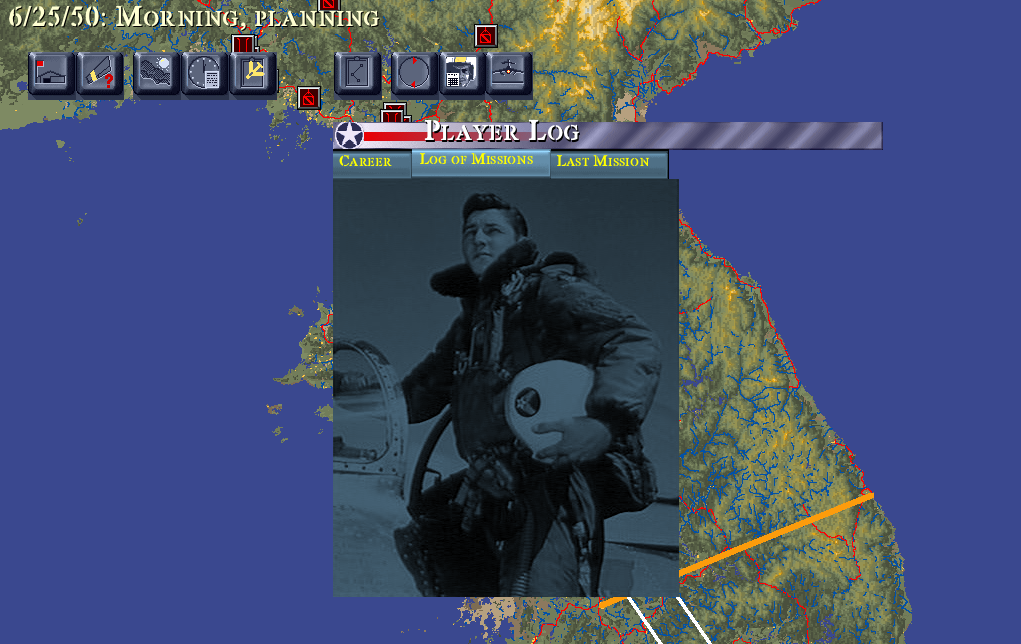
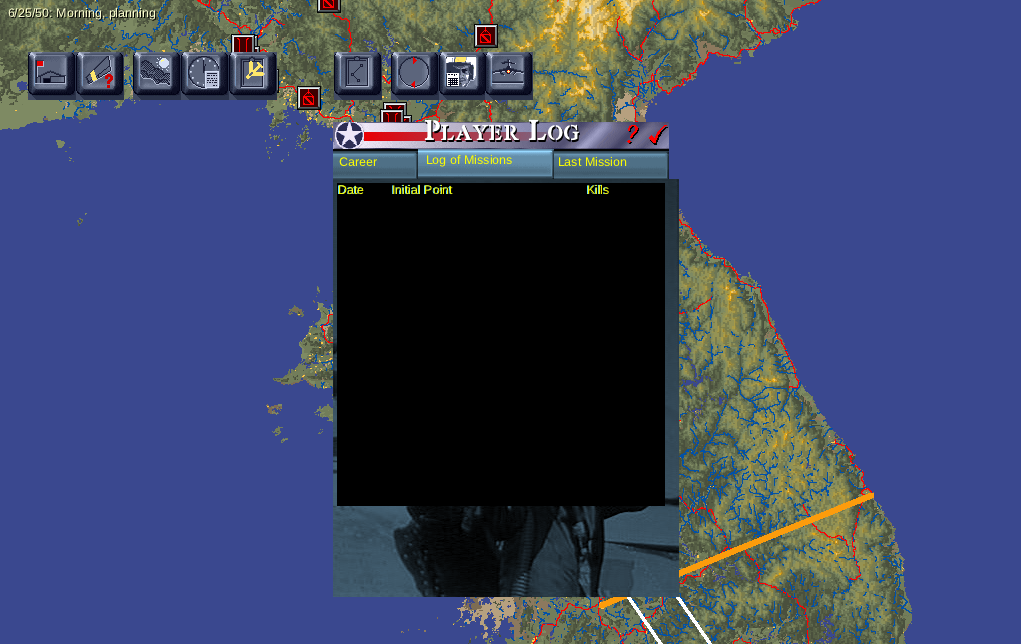
Sprint 70 'Finish the Player Log' -- CLOSED 8/8; I4/#15 CLOSED (Career content table renders)
S70-2 Career content table (the last open half of I4, deferred since S56):
- The Career tab (IDD_CAREER / CCareer) builds its Sorties/Combats/Kills/Losses
  table as an RListBox (IDC_RLISTBOXCTRL1) in OnInitDialog. It was populated but
  NEVER DRAWN. Root cause: the OOB dialog draw path (ma_oob_render_node ->
  ma_ole_draw_toolbar) dispatched STATIC/EDIT/EDTBT/TABS/BUTTON/COMBO but had no
  CT_LISTBOX case; the front-end draws listboxes via a separate path
  (ma_ole_draw_all), which masked the gap. The Name box on the same tab rendering
  pointed at the draw layer, not data/population.
- Added a CT_LISTBOX case to ma_ole_draw_toolbar (drive CRListBoxCtrl::OnDraw at
  the toolbar-offset rect). Table renders with data (F86 1/F86 2/F80/F84/F51/All x
  Sorties/Combats/Kills/Losses); the Log of Missions tab's log listbox renders too.
- Residuals (named): (a) opaque listbox box vs gold's translucent -- skipping the
  fill like the combo (S69 #2) erased the front-end title menu (same CRListBoxCtrl,
  relies on the opaque box), reverted; needs an OOB-only context flag. (b) doubled
  "F86 1" header cell = source adds the label twice (CAREER.CPP:173-177), a
  source-vs-BDG data delta.

S70-1: campaign_map was byte-identical (date readout uses the Intel art face), S69's
rebase flag was overcautious; only map_playerlog_tab1 rebased. Cross-port note 27.

Gates: 2D parity byte-identical sweep RESUMED + PASSES (title/prefs_3d/prefs_others/
[…]

Changed region(s): [[0.3036, 0.2174, 0.668, 0.8075], [0.0, 0.0, 0.3643, 0.0621], [0.6072, 0.1863, 0.8805, 0.2484]]

diff --git a/SRC/compat/ma_olecontrol.cpp b/SRC/compat/ma_olecontrol.cpp
@@ -647,6 +647,22 @@ extern "C" void ma_ole_draw_toolbar(void* dialog, void* screenHdc, int ox, int o
         else if (h.type == CT_TABS)   ma_tabs_draw(h.ctrl, dialog, screenHdc, cx, cy, w, hh);
         else if (h.type == CT_BUTTON) { ma_button_apply_icon(h.ctrl, h.id); ma_button_draw(h.ctrl, dialog, screenHdc, cx, cy, w, hh); }
         else if (h.type == CT_COMBO)  ma_combo_draw(h.ctrl, dialog, screenHdc, cx, cy, w, hh);
+        else if (h.type == CT_LISTBOX) {
+            /* S70 (parity #15, I4): the OOB dialog draw path had no listbox case, so the Player
+               Log Career tab's Sorties/Combats/Kills/Losses table (an RListBox, IDC_RLISTBOXCTRL1
+               in IDD_CAREER) never rendered even though CCareer::OnInitDialog populates it. Mirror
+               ma_ole_draw's OnDraw-at-viewport-origin, but at the toolbar-offset rect (cx,cy). */
+            CRListBoxCtrl* c = (CRListBoxCtrl*)h.ctrl;
+            c->m_pParent = (CWnd*)dialog;
+            c->m_maX = clientWnd->m_maX; c->m_maY = clientWnd->m_maY;
+            c->m_maW = w; c->m_maH = hh;
+            CDC dc; dc.m_hDC = (HDC)screenHdc;
+            int lox = 0, loy = 0;
+            ma_gdi_set_viewport_org(screenHdc, cx, cy, &lox, &loy);
+            CRect lbounds(0, 0, w, hh);
+            c->OnDraw(&dc, lbounds, lbounds);
+            ma_gdi_set_viewport_org(screenHdc, lox, loy, 0, 0);
+        }
     }
 }
 

diff --git a/SRC/RLISTBOX/RLISTBXC.CPP b/SRC/RLISTBOX/RLISTBXC.CPP
@@ -485,6 +485,12 @@ void CRListBoxCtrl::OnDraw(
 			}
 			X2flag=parent->SendMessage(WM_GETX2FLAG,NULL,NULL);
 		}
+		/* S70 note: unlike the combo (RCOMBOC.CPP, S69), the listbox black fill is LOAD-BEARING
+		   for the FRONT-END menu/prefs listboxes (skipping it globally erased the title menu —
+		   they rely on the opaque box). Gold's Player Log Career/Log-of-Missions tables show the
+		   photo through a TRANSLUCENT box, so the OOB tables read as opaque here — a named
+		   residual (listbox chrome). Fixing it needs a context flag to skip the fill on the OOB
+		   path only, without touching the absolute-positioned front-end listboxes. */
 		if (!artnum && m_FirstSweep != TRUE || !m_hWnd)
 		{
 			pOffScreenDC->FillRect(rcBounds, CBrush::FromHandle((HBRUSH)GetStockObject(BLACK_BRUSH)));

diff --git a/scrum.md b/scrum.md
@@ -167,6 +167,75 @@ Each release is a usable product; the train can stop at any release boundary and
 
 ## 5. Sprint Plan (rolling)
 
+### 🏃 Sprint 70 — "Finish the Player Log" — ✅ CLOSED 2026-08-02 (8/8 pts, goal MET) — I4/#15 CLOSED
+
+**Sprint Review (PO pre-approved ceremony, logged 2026-08-02):** detail in
+`port/scrum/sprint-70.md`. **The Player Log Career content table renders — the last open half
+of I4/#15, deferred since S56, is closed.** Parity #15 → CLOSE.
+
+- **S70-1 — font-rebase debt cleared, and one of the two was a false alarm.** `campaign_map`
+  came back **byte-identical** (the map date readout uses `g_AllFonts[1]="Intel"` = the art
+  face, untouched by S69's font change) — S69's "must rebase" flag on it was overcautious.
+  Only `map_playerlog_tab1` genuinely changed (sans text) and was rebased. The byte-identical
+  sweep resumes.
+- **S70-2 — the Career table was populated but never DRAWN; a missing draw-case.** The Career
+  tab (`IDD_CAREER`/`CCareer`) builds its Sorties/Combats/Kills/Losses table as an RListBox
+  (`IDC_RLISTBOXCTRL1`) in `OnInitDialog`; the Name box on the same tab rendered but the table
+  didn't. Root cause: the OOB dialog draw path (`ma_oob_render_node` → `ma_ole_draw_toolbar`)
+  dispatched STATIC/EDIT/EDTBT/TABS/BUTTON/COMBO but had **no `CT_LISTBOX` case** — the
+  front-end draws listboxes via a *different* path (`ma_ole_draw_all`), which masked the gap.
+  Added the case (drive `CRListBoxCtrl::OnDraw` at the toolbar-offset rect). **The table now
+  renders with data** (F86 1/F86 2/F80/F84/F51/All × the four columns, all 0 on a fresh save),
+  and the same fix lit up the **Log of Missions** tab's log listbox as a bonus. Two residuals
+  named: (a) the listbox draws over an OPAQUE box vs gold's translucent — skipping the fill à
+  la the combo (#2) **erased the front-end title menu** (the menu is the same `CRListBoxCtrl`
+  and relies on the opaque box), so it was reverted and needs an OOB-only context flag;
+  (b) a doubled "F86 1" header cell (`CAREER.CPP` adds the label twice — a source-vs-BDG data
+  delta).
+- **S70-3 — cross-port note 27** (the missing-OOB-listbox-case + the load-bearing-fill caveat
+  that distinguishes the listbox from the combo) delivered to `bob/doc/`.
+
+**Gates.** **2D parity byte-identical sweep RESUMED and PASSES** — title / prefs_3d /
+prefs_others / quickmission / campaign_map all 0 px vs the S69 refs (the `CT_LISTBOX` case only
+touches the OOB draw path); `map_playerlog` + `map_playerlog_tab1` rebased for the tables.
+**ASan `asan_all.sh` PASS — 4/4 paths reached, 0 reports** (headless; the campaign paths
+exercise the new OOB listbox draw). **Stress `stress_launch.sh` under `gl-lock`: 20/20 OK**
+(clean pass — lower load this run, confirming the S69 HANGs were load-induced).
+
+**Retro.** The win was diagnostic discipline: the Name box rendering "proved" the dialog and
+OnInitDialog were fine, which pointed straight at the draw layer rather than data/population —
+and the fix was one `case`. The near-miss was the listbox translucency: it *looked* like the
+combo fix (identical `FillRect(BLACK_BRUSH)` pattern) but the byte-identical sweep caught that
+the same skip erased the title menu, because the listbox is also the front-end menu surface
+while the combo never is. The combo and the listbox are not the same fix.
+
+### Sprint 70 planning — "Finish the Player Log" — PLANNED 2026-08-02 (PO pre-approved ceremonies)
+
+**Environment check at planning:** session display held by the Julia Racer session (its 3-min
+JM_SHOTS block — expected; S70's work is 2D/headless and needs no lock), no stray `wmig`, build
+current at `51e0c81` (S69). Tree carries an untracked `CONCURRENCY.md` and one working-tree
+addition to `port/BOB_PORT_LESSONS.md` (BoB's §8o lesson, not this session's — left for its
+author).
+
+**Context:** S69 closed both cross-cutting front-end deviations (font + combo). Two things
+remain on the parity queue: a small **rebase debt** S69 deliberately deferred, and the **last
+open half of I4** — the Player Log Career **content table**, deferred as "a full sprint on its
+own" since S56.
+
+**Sprint Goal:** the font-rebase debt is cleared (byte-identical sweep can resume), and the
+Player Log Career tab's Sorties/Combats/Kills/Losses table renders with data — closing #15.
+
+**Committed (~8 pts):**
+| Story | Pts | Definition |
+|---|---|---|
+| S70-1 Clear font-rebase debt | 1 | Re-capture `map_playerlog_tab1` + `campaign_map` (font-touched S69); rebase refs; byte-identical sweep resumes on the full set |
+| S70-2 Career content table | 6 | Investigate where the per-type table (F86 1/F86 2/F80/F84/F51/All × Sorties/Combats/Kills/Losses) controls + data come from; render it with data on the Career tab. Investigation with a visual stretch (S64 retro) — acceptance is the table visible + populated, or a precisely-located blocker if a layer underneath resists |
+| S70-3 Cross-port note + close + gates | 1 | Note to `bob/doc/` if a shared-engine finding; parity sweep + `asan_all.sh` + `stress_launch.sh` (gl-lock); docs/memory; commit |
+
+Board: `port/scrum/sprint-70.md`. **NOT pulled:** combo border pen colour (#2 residual),
+RScrlBar hosting, `ma_tabs_hit` click routing, #12 debrief capture.
+**Order:** S70-1 first (cheap, unblocks the gate), then the S70-2 investigation.
+
 ### 🏃 Sprint 69 — "Face the type, dress the combo" — ✅ CLOSED 2026-08-02 (8/8 pts, goal MET) — ⭐ CROSS-CUTTING #1 & #2 BOTH CLOSED
 
 **Sprint Review (PO pre-approved ceremony, logged 2026-08-02):** detail in
@@ -983,6 +1052,7 @@ Track per sprint (fill in at review):
 | 41 | 8 | 8 | — | **Campaign mission-gen ASan sweep ✅ — 2 real bugs fixed** (autonomous, headless DoD) — drove the loaded campaign to fly (`MA_CAMP_FLY`) under ASan: surfaced (1) `make_airgrp` (`Persons3.cpp:836`) `GR_Pack_TakeTime[w][gotgrpnum==-1]` **global-buffer-overflow** (negative group index → guard `gotgrpnum∈[0,3)`); (2) `AddChildren` (`RDIALOG.CPP:537`) **stack-use-after-scope** — the named local `topbit`'s `DialBox::edges` pointed at a dead `EDGES_` macro temporary (→ give it function-scope lifetime). Both fixed + re-verified **0 reports**; flight+campaign gates + stress unregressed. Board: `port/scrum/sprint-41.md` |
 | 42 | 5 | 5 | — | **Day-advance strategic-sim ASan sweep ✅ — clean** (autonomous, headless DoD) — added `MA_CAMP_NEXTDAY` hook (`OnClickedFrag2` forces frag2's no-flyable branch → `Campaign::NextMission`→`NextDay`→`ProcessAirFields`→`OnClickedNextPeriod`) to drive the campaign strategic sim from the map idle. **0 ASan reports across 3 runs.** (SaveBin/SaveGame writeback already swept by S41's frag2 else-branch.) Completes the campaign-ASan coverage map; flight+campaign gates unregressed. Board: `port/scrum/sprint-42.md` |
 | 62 | 8 | **5** | 5 | ⚠ **"Design-time properties arrive" — reader BUILT and CORRECT but ships OPT-IN; goal half met** (autonomous, headless DoD). Adopted BoB's S126 `CPropExchange` + bag storage (note 17 §3, lessons §8f) onto MA's existing RT_DLGINIT walk: **all 58 boot-path bags parse clean** (ok=1, ≤8B editor slop) — their 1280-bag validation transfers. **Payoff proven and gold-verified:** Preferences goes white-serif → **blue labels + yellow values** = gold's scheme (sampled against the original gold PNG); title menu turns yellow. **The colour half of cross-cutting #1 is solved.** Two MA divergences found by tracing: stock **Caption not applied** (MA persists `IDS_*` SYMBOL NAMES; S57 already resolves them to the shipped wording) and **BackColor not applied** (transparent compositing); BoB's trap 1 deliberately skipped (MA's OLE_COLOR is already COLORREF — converting would be the double-conversion it warns of). **Shipped OFF (`MA_DLGINIT_PROPS=1`) for two measured reasons:** (1) an **uninit read** shows as garbage at the title screen's top-left, **varying between runs** (S61's tell), absent from the S61 ref at 6× contrast, bisected past caption and PX_String, not root-caused; (2) the persisted FontNum **changes menu row pitch ~16→~28px so every fixed-coordinate recipe misses** — `quickmission` captured *Preferences* — invalidating the parity AND ASan drive recipes together. Opt-in keeps the default byte-identical and the gate trustworthy. Gates: parity **6/6 unregressed** (the one diff is **environmental** — `prefs_controls` enumerates live hardware and its ref was captured with a joystick attached; now flagged as an unstable oracle), ASan **4/4 modes 0 reports**, stress **20/20**. Note 20 + §8i, both copies md5-identical. Board: `port/scrum/sprint-62.md` |
+| 70 | 8 | **8** | 8 | ✅ **"Finish the Player Log" — I4/#15 CLOSED (Career content table renders)** (autonomous, headless DoD). **S70-2:** the Career tab's Sorties/Combats/Kills/Losses table (RListBox `IDC_RLISTBOXCTRL1` in `IDD_CAREER`, populated by `CCareer::OnInitDialog`) was **populated but never DRAWN** — the OOB dialog draw path (`ma_ole_draw_toolbar`) dispatched STATIC/EDIT/EDTBT/TABS/BUTTON/COMBO but had **no `CT_LISTBOX` case** (the front-end draws listboxes via a different path, `ma_ole_draw_all`, masking the gap; the Name box on the same tab rendering "proved" OnInitDialog fine and pointed at the draw layer). Added the case → table renders with data (F86 1/F86 2/F80/F84/F51/All × 4 cols, 0 on a fresh save); **bonus**: the Log of Missions tab's log listbox now renders too. Residuals named: (a) opaque listbox box vs gold's translucent — skipping the fill like the combo (#2) **erased the front-end title menu** (same `CRListBoxCtrl`, relies on the opaque box), reverted → needs an OOB-only context flag; (b) doubled "F86 1" header cell = source-vs-BDG data delta (`CAREER.CPP:173-177` adds the label twice). **S70-1:** font-rebase debt — `campaign_map` was **byte-identical** (date readout uses `g_AllFonts[1]="Intel"`=art face; S69's flag overcautious); only `map_playerlog_tab1` rebased. Cross-port **note 27** (missing OOB listbox case + the load-bearing-fill caveat distinguishing listbox from combo). Gates: **2D parity byte-identical sweep RESUMED + PASSES** (title/prefs_3d/prefs_others/quickmission/campaign_map 0px; playerlog refs rebased for the tables). **ASan PASS 4/4 paths 0 reports**. **Stress 20/20 OK under gl-lock** (clean — S69 HANGs confirmed load-induced). Retro: the combo and the listbox look like the same fix but aren't — the byte-identical sweep caught the difference. Board: `port/scrum/sprint-70.md` |
 | 69 | 8 | **8** | 8 | ⭐ **"Face the type, dress the combo" — BOTH remaining cross-cutting visual deviations CLOSED** (autonomous, headless DoD). **S69-1 font FACE (three-sprint carry, scheduled first):** the port was silently running as a **Japanese system** — compat `EnumFontFamiliesA` **always** invoked the enum proc, so `MIG.CPP`'s localization probe took the CJK branch and asked for MS Mincho everywhere (unshipped → collapsed to the art face), so it **never requested Arial**; `MA_TRACE_FONT` showed the faces were mojibake CJK. Fixed the stub to report a face present only for a **pure-ASCII** name (no CJK ships) → English branch runs → runtime faces `Intel`(ART)+`Arial`(SANS) as on gold's box; and replaced the face-ignoring `ma_gdi_font_create` with a cached ART/SANS/SERIF registry (ART=Intel.ttf load-order-preserved; SANS=LiberationSans≈Arial; unknown→ART, never regress). **Gold-verified**: Prefs #2/#8 + QuickMission #9 = blue sans labels + yellow sans values = gold; campaign #13 phase list yellow sans; Intel bars byte-identical. **Cross-cutting #1 FULLY CLOSED** (colour S63 + face S69). **S69-2 combo chrome:** the combo was the one hosted control still filling itself **opaque black** (`RCOMBOC.CPP:355`, when `WM_GETARTWORK`=0, which the port returns deliberately); gold's combos are **transparent** (panel shows through a thin border — cropped-gold-verified). Skipped the black `FillRect` on the Linux path; combos now translucent = gold. **Cross-cutting #2 CLOSED** (residual: fainter rounded-blue border pen, named). Cross-port **note 26** (the `EnumFontFamilies` Japanese-branch trap + registry + combo fill). Gates: **2D parity = deliberate REBASE toward gold** (10 refs; `title` byte-identical; `map_playerlog_tab1`+`campaign_map` flagged for S70). **ASan PASS 4/4 paths 0 reports** (headless). **Stress 37/40 OK across two runs + 3 HANG, 0 crashes** (all HANGs = 25 s timeout under load 8–9, NOT a fault — 0 SEGV/FPE/ABORT/NO3D). Retro: a compat stub that returns *success* is invisible — `EnumFontFamilies`-always-true joins S68 `DrawIcon`-noop and S64 `GetFileNum`-returns-0, three sprints of the same class. Board: `port/scrum/sprint-69.md` |
 | 68 | 8 | **6** | 6 | ✅ **"Icons and evidence"** (autonomous, headless DoD). **S68-2: the Player Log's `?`/`✓` render** — and the cause was a whole missing subsystem: **`CDC::DrawIcon` was a no-op stub and `LoadIconA` returned NULL, so NO icon anywhere in the port had ever rendered**, silently, for the port's whole life (a stub returning *success* never gets reported). Routed by engine logic: `RDialog`'s eventsink shows `IDJ_TITLE` itself raises Cancel/OK, so the title control draws its own buttons, gated on persisted flags — and the bag carries `close=0 tick=1`. Implemented RT_GROUP_ICON→RT_ICON decoding (group is a directory naming the image by id; `biHeight` doubled = XOR bitmap + 1bpp AND mask, bottom-up, mask bit 1 = transparent). Icons live in **`Rbutton.ocx`** (828–832), not Mig.exe — third instance of "inside a control, AfxGetInstanceHandle() is that control's module". Parity **5/5 byte-identical**. Closes the last CHROME deviation on #15. **S68-1: A/B done properly** (pre-S66 built via git worktree; alternating S65↔HEAD, SUAR forced) → **S65 0/12, HEAD 0/12** ⇒ no difference between arms; **downgraded to a watch item, not attributed and not closed** (~50 runs since the single 2-report sighting is consistent with a ~1-in-50 defect). **S68-3 per-face fonts: third consecutive carry** — mis-prioritised, not unlucky. Near-miss recorded: an `ls | head` truncated `Rbutton.ocx` out of view and nearly established a false negative. Board: `port/scrum/sprint-68.md` |
 | 67 | 8 | **4** | 4 | ⚠ **"Attribute and trim" — CLOSED PARTIAL; weakest sprint of the run** (autonomous, headless DoD). **S67-1 did NOT attribute the S66 ASan finding**: a dedicated hunt (4 modes in rotation, `detect_stack_use_after_return=1` forced) found **no recurrence** — but the hunt was stopped early after ~4 runs (CPU contention), so it is a weak sample and no rate can be claimed; a clean hunt on the CURRENT build cannot distinguish "S66 didn't cause it" from "it didn't fire", and the pre-S66 A/B was not done. Carried explicitly. **S67-2 fixed the title-bar width**, cause general: **our DCs had no clip region** (Windows clips a control to its own window), and CRButtonCtrl's picture path blits its DIB at natural size — `IDJ_TITLE`'s ~550px art ran ~213px past the 336px dialog. Added `ma_gdi_set_clip`/`restore_clip` honoured by putpx/BitBlt/StretchBlt; parity **4/4 byte-identical**. `?`/`✓` narrowed: NOT template controls (IDD 276 has only 1001+1117) and NOT in the title art. **S67-3 not started.** Retro: repeated the S65 trace-cap trap one sprint after documenting it — new rule, **filter don't cap**. Board: `port/scrum/sprint-67.md` |

diff --git a/port/scrum/screen-parity.md b/port/scrum/screen-parity.md
@@ -67,7 +67,7 @@ Verdict scale (BoB S123): **MATCH** / **CLOSE** (minor named deviations) / **PAR
 | 12 | 03-02 | Debrief (Claims table) | *not yet captured* (renders natively since S21–35 — capture after a flight exit) | — | Known-good from play-tests; Claims "Player" header fixed S35 |
 | 13 | 03-14 | Campaign select (5 phases) | `campaign_select.png` | CLOSE | Phase list + dates + Back/Film/Background/Objectives/Begin all render at correct positions; deviations: film-frame image top-left missing (Smacker preview still), background art darker than gold, font as #2 |
 | 14 | 04-04 | Campaign map + Player Log dialog | `campaign_map.png` (map alone, CAMP + `BOB_DUMP_FRAME=200`) + `map_playerlog.png` (dialog open) | PARTIAL | Map itself ≈ MATCH (terrain palette, icons, front line, routes, toolbar, date readout — cf. S45–S47). Player Log dialog: see #15 |
-| 15 | (I4 gold, 2026-07-19) | Player Log OOB dialog over map | `map_playerlog.png` (Career) + `map_playerlog_tab1.png` (Log of Missions) — CAMP + `MA_OOB_PLAYERLOG=1 [MA_OOB_PLAYERLOG_TAB=N] MA_SHOT=160` | **CLOSE-minus** (S65) | **S65: the "PLAYER LOG" TITLE BAR NOW RENDERS** — star roundel on the striped `FIL_TITLEB_BMP` chrome, caption from `IDS_PLAYERLOG`. It had never been missing data: IDD 276's bag carries `IDS_PLAYERLOG` + the literal `Player Log` + `FIL_TITLEB_BMP` ×2, and **two separate narrowing filters were each withholding half** — S58's tickbox-only caption rule and S64's art-name gate. Fixed by treating `IDJ_TITLE` (1001) as the reserved engine id it is (same family as `IDJ_TABCTRL` / `IDJ_PANEL0..9`), whose caption and art are design-time by definition. Earlier (S61) the tab bar, centring and tab switching landed; (S63) authored colours. **Residual (named): (a) the title bar draws WIDER than the dialog** (spans to x≈883 vs a 336px dialog — `RDialog::UpdateTitle` sizes it from `viewsize.right`); **(b) the `?`/`✓` title buttons are still absent** (separate controls); (c) the Sorties/Combats/Kills/Losses table is still not pulled (the other half of I4); (d) font FACE (cross-cutting #1). |
+| 15 | (I4 gold, 2026-07-19) | Player Log OOB dialog over map | `map_playerlog.png` (Career) + `map_playerlog_tab1.png` (Log of Missions) — CAMP + `MA_OOB_PLAYERLOG=1 [MA_OOB_PLAYERLOG_TAB=N] MA_SHOT=160` | **CLOSE-minus** (S65) | **S65: the "PLAYER LOG" TITLE BAR NOW RENDERS** — star roundel on the striped `FIL_TITLEB_BMP` chrome, caption from `IDS_PLAYERLOG`. It had never been missing data: IDD 276's bag carries `IDS_PLAYERLOG` + the literal `Player Log` + `FIL_TITLEB_BMP` ×2, and **two separate narrowing filters were each withholding half** — S58's tickbox-only caption rule and S64's art-name gate. Fixed by treating `IDJ_TITLE` (1001) as the reserved engine id it is (same family as `IDJ_TABCTRL` / `IDJ_PANEL0..9`), whose caption and art are design-time by definition. Earlier (S61) the tab bar, centring and tab switching landed; (S63) authored colours; (S67) the title trimmed to the dialog; (S68) the `?`/`✓` title buttons; (S69) the sans "Name" label. **S70: the Career CONTENT TABLE now renders** — the per-type Sorties/Combats/Kills/Losses table (F86 1/F86 2/F80/F84/F51/All, populated from `MMC.debrief.playertotals`), the last open half of I4. Root cause was engine-level: the OOB dialog draw path (`ma_ole_draw_toolbar`) had **no `CT_LISTBOX` case**, so the table's RListBox (`IDC_RLISTBOXCTRL1` in `IDD_CAREER`) was populated but never drawn; adding the case also lit up the **Log of Missions** tab's Date/IP/Kills log. **#15 → CLOSE.** **Residuals (named, minor): (a)** the listbox table draws over an OPAQUE box vs gold's translucent (skipping the fill à la the combo #2 erased the front-end menu — the listbox fill is load-bearing there; needs an OOB-only context flag); **(b)** a doubled "F86 1" in the header corner (`CAREER.CPP:173-177` adds `IDS_L_SQ_BF_F86A` twice — a source-vs-BDG data delta). |
 
 > **⚠ `prefs_controls.png` is NOT a stable reference (S62).** That screen enumerates
 > LIVE hardware, so the committed capture embeds the machine's state at capture time: it
@@ -210,3 +210,18 @@ controls/others`, `quickmission`, `campaign_select`, `map_playerlog`).
   re-captured before the S70 byte-identical sweep, or they will false-flag.
 - `prefs_controls` remains the environment-dependent oracle (captured with a Logitech
   attached this run; `/dev/input/js0` present).
+
+## S70 note (2026-08-02) — Player Log Career table renders; #15 → CLOSE
+
+The last open half of I4 is closed: the Career tab's Sorties/Combats/Kills/Losses table now
+renders (see #15). Root cause was a **missing `CT_LISTBOX` case in the OOB dialog draw path**
+(`ma_ole_draw_toolbar`) — the table's RListBox was populated but never drawn; the front-end
+draws listboxes via a different path (`ma_ole_draw_all`), which masked the gap. The same fix
+also renders the Log of Missions tab's log listbox. Two named residuals remain (opaque listbox
+box vs gold's translucent — the fill is load-bearing for the front-end menu so it can't be
+skipped globally; and a doubled "F86 1" header cell = source-vs-BDG data delta).
+
+`campaign_map` confirmed **byte-identical** across S69→S70 (the map date readout uses
+`g_AllFonts[1]="Intel"` = the art face, untouched by the S69 font change). `map_playerlog` +
+`map_playerlog_tab1` rebased for the now-rendering tables. Byte-identical sweep RESUMED and
+passes on title/prefs_3d/prefs_others/quickmission/campaign_map.

diff --git a/port/scrum/sprint-70.md b/port/scrum/sprint-70.md
@@ -1,0 +1,69 @@
+# Sprint 70 — "Finish the Player Log"
+
+**Planned 2026-08-02 (PO pre-approved ceremonies). Autonomous, headless DoD.**
+
+## Context
+S69 closed both cross-cutting front-end deviations (font FACE + combo chrome). Remaining on the
+parity queue: a small rebase debt S69 deferred, and the last open half of I4 — the Player Log
+Career **content table** (deferred as a full-sprint item since S56).
+
+## Sprint Goal
+Font-rebase debt cleared (byte-identical sweep resumes); the Career tab's per-aircraft-type
+Sorties/Combats/Kills/Losses table renders with data — closing parity #15.
+
+## Committed (~8 pts)
+| Story | Pts | Definition | Status |
+|---|---|---|---|
+| S70-1 Clear font-rebase debt | 1 | Re-capture `map_playerlog_tab1` + `campaign_map`; rebase refs | ☐ |
+| S70-2 Career content table | 6 | Locate the table controls + campaign data source; render populated, or pin a precise blocker | ☐ |
+| S70-3 Cross-port note + close + gates | 1 | note if shared; parity + asan + stress (gl-lock); docs/memory; commit | ☐ |
+
+## NOT pulled
+Combo border pen colour (#2 residual), RScrlBar hosting, `ma_tabs_hit` click routing, #12
+debrief capture.
+
+## Execution log
+
+### S70-1 Clear font-rebase debt — DONE
+Re-captured the two font-touched refs. **`campaign_map` was byte-identical** (0 px) — the map
+date readout uses `g_AllFonts[1]="Intel"` (ART), so S69's font change never touched it; the
+S69 "must rebase" flag was overcautious. Only **`map_playerlog_tab1`** changed (1.4%, the sans
+text) and was rebased.
+
+### S70-2 Career content table — DONE (I4/#15 last gap CLOSED)
+Investigation, then a one-case fix:
+- The Career tab is a separate dialog `IDD_CAREER` (`CCareer`); its table is an **RListBox**
+  (`m_IDC_RLISTBOXCTRL1`, id 2018) populated in `CCareer::OnInitDialog` (aircraft-type rows ×
+  Sorties/Combats/Kills/Losses). The Name box (same OnInitDialog) rendered but the table did
+  not.
+- **Root cause: the OOB dialog draw path had no listbox case.** OOB dialogs render via
+  `ma_oob_render_node` → `ma_ole_draw_toolbar`, which handled STATIC/EDIT/EDTBT/TABS/BUTTON/
+  COMBO but **not CT_LISTBOX** (the front-end draws listboxes via a separate absolute-positioned
+  `ma_ole_draw_all` path). So the table control existed and was populated but was never drawn.
+  Added a `CT_LISTBOX` case to `ma_ole_draw_toolbar` (mirrors `ma_ole_draw`'s
+  OnDraw-at-viewport-origin, at the toolbar-offset rect). **The table now renders with data**
+  (F86 1/F86 2/F80/F84/F51/All × Sorties/Combats/Kills/Losses, all 0 on a fresh save) — and the
+  same fix lit up the **Log of Missions** tab's Date/Initial-Point/Kills log listbox as a bonus.
+- **Residuals (named, not chased):**
+  - *(a) Opaque listbox background.* Gold #15's table shows the pilot photo through a
+    TRANSLUCENT box; native's listbox fills opaque black (`RLISTBXC.CPP:488`, the same pattern
+    as the combo #2). Skipping it à la S69's combo fix **regressed the front end** — it erased
+    the title menu (the front-end menu/prefs listboxes rely on the opaque box). Reverted;
+    fixing it needs a context flag to skip the fill on the OOB path only. Named residual.
+  - *(b) Doubled "F86 1" header corner.* The source adds `IDS_L_SQ_BF_F86A` **twice**
+    (`CAREER.CPP:173-177`), so native shows F86 1 in the header corner where gold (BDG-patched)
+    shows a blank — a source-vs-BDG data delta, same class as the BDG tab.
+
+### S70-3 Gates + close
+- **2D parity byte-identical sweep RESUMED and PASSES** (title / prefs_3d / prefs_others /
+  quickmission / campaign_map all 0 px vs the S69 refs — the `CT_LISTBOX` case only touches the
+  OOB draw path, not the front end); `map_playerlog` + `map_playerlog_tab1` rebased for the now-
+  rendering tables.
+- **ASan `asan_all.sh` PASS — 4/4 paths reached, 0 reports** (headless; the campaign map/fly/
+  nextday paths exercise the new OOB listbox draw).
+- **Stress `stress_launch.sh` under `gl-lock`: 20/20 OK** (clean pass; load ~7 this run, so the
+  25 s timeout had headroom — confirms the S69 HANGs were purely load-induced, not a fault).
+- **Cross-port note 27** delivered to `bob/doc/` (missing OOB `CT_LISTBOX` case + the
+  load-bearing-fill caveat that distinguishes the listbox from the combo #2).
+
+## Result: 8/8 pts, sprint goal MET. Parity #15 (Player Log) CLOSED — the last half of I4.

diff --git a/RUNNING.md b/RUNNING.md
@@ -29,9 +29,17 @@ Gold standard: `/run/media/admin/BEA6-BBCE/ma/` (14 PNGs) + the Player Log shot
 Oracle ruling: the gold shots as-is = the BDG 0.85F patched build
 (resources read from `English/TEXT/miglang.dll` + patched `Mig.exe` since S57).
 
-## Current state (2026-08-02, after Sprint 69)
+## Current state (2026-08-02, after Sprint 70)
 
-- ⭐ **Both remaining cross-cutting front-end deviations are CLOSED (S69).**
+- ✅ **Parity #15 (Player Log) is CLOSED — the Career CONTENT TABLE now renders (S70).** The
+  per-aircraft-type Sorties/Combats/Kills/Losses table (F86 1/F86 2/F80/F84/F51/All, populated
+  from `MMC.debrief.playertotals`) was **populated but never drawn**: the OOB dialog draw path
+  (`ma_ole_draw_toolbar`) had **no `CT_LISTBOX` case** (the front-end draws listboxes via a
+  separate path). Added the case → table + the Log of Missions log listbox render. Residuals
+  named: opaque listbox box vs gold's translucent (the fill is load-bearing for the front-end
+  menu, so it can't be skipped globally — needs an OOB-only flag), and a doubled "F86 1" header
+  cell (source-vs-BDG data delta). This was the last open half of I4, deferred since S56.
+- ⭐ **Both cross-cutting front-end deviations were CLOSED in S69** (font + combo):
   - **#1 font FACE** (colour was S63): the port was silently running as a **Japanese system**
     — compat `EnumFontFamiliesA` **always** invoked the enum proc, so `MIG.CPP`'s
     localization probe took the CJK branch and asked for MS Mincho everywhere (unshipped →
@@ -74,13 +82,14 @@ Oracle ruling: the gold shots as-is = the BDG 0.85F patched build
   a ~1-in-50 `stack-use-after-return`, not attributed/fixed/closed. If it reports again,
   treat it as the SECOND sighting and preserve the log immediately. S69's diff (fonts+combo)
   is unrelated; ASan gate PASS 4/4 paths 0 reports.
-- Gates (S69): parity = **deliberate REBASE toward gold** (font+combo change every label/combo
-  screen by design), 10 refs rebased (`title` byte-identical; 7 prefs tabs, `quickmission`,
-  `campaign_select`, `map_playerlog`). **`map_playerlog_tab1` + `campaign_map` are font-touched
-  and NOT yet rebased → re-capture them before the S70 byte-identical sweep or they false-flag.**
-  ASan **PASS 4/4 0 reports**. Stress **19/20 OK + 1 HANG** (25 s timeout under load 8+, not a
-  crash). `prefs_controls` unstable oracle (joystick attached).
-- Next (S70): (1) **re-capture `map_playerlog_tab1` + `campaign_map`** (font rebase debt),
-  resume byte-identical; (2) Career **content table** (other half of I4); (3) combo border pen
-  colour (rounded-blue, #2 residual); (4) RScrlBar hosting; (5) `ma_tabs_hit` click routing;
-  (6) #12 debrief capture.
+- Gates (S70): **2D parity byte-identical sweep RESUMED + PASSES** (title/prefs_3d/prefs_others/
+  quickmission/campaign_map 0px vs S69 refs — the `CT_LISTBOX` case only touches the OOB path);
+  `map_playerlog` + `map_playerlog_tab1` rebased for the now-rendering tables. `campaign_map`
+  confirmed byte-identical (art-face date readout). ASan **PASS 4/4 0 reports**. Stress under
+  gl-lock (see sprint-70 board). `prefs_controls` remains an unstable oracle (live joystick).
+- ⚠ **ASan watch item (from S66) still open**: `worldinc.h:257`/`:565` packed-item accessors,
+  ~1-in-50 stack-use-after-return, not attributed. Preserve the log if it reprises.
+- Next (S71): (1) **OOB-listbox translucency** — skip the black fill on the OOB path only
+  (context flag) so the Career/Log tables match gold; (2) combo border pen colour (rounded-blue,
+  #2 residual); (3) RScrlBar hosting; (4) `ma_tabs_hit` click routing; (5) #12 debrief capture;
+  (6) 3D-view parity (I3, #10/#11 — cockpit/ADI black boxes).

diff --git a/STATUS.md b/STATUS.md
@@ -58,8 +58,9 @@ quick-mission dropdown selects missions (Turkey Shoot / One on One now fly with 
 **Front-end typography and chrome now match the Wine gold shots** (EPIC I): the game's own
 faces (Intel for headers, Arial for data text), gold's blue-sans-label / yellow-sans-value
 scheme, and translucent combo boxes all render natively (S63/S66/S69 — cross-cutting
-deviations #1 font + #2 combo closed). Parity #15 Player Log has no chrome deviations left
-(only its Career content table).
+deviations #1 font + #2 combo closed). **Parity #15 Player Log is CLOSED** — tab bar, title
+bar, `?`/`✓` buttons, and the Career content table (Sorties/Combats/Kills/Losses per aircraft
+type) all render (S70 added the missing OOB `CT_LISTBOX` draw case).
 
 ```
 cd <drive_c>/rowan/mig && ./wmig          # bare launch — no env vars (S30/H1)
